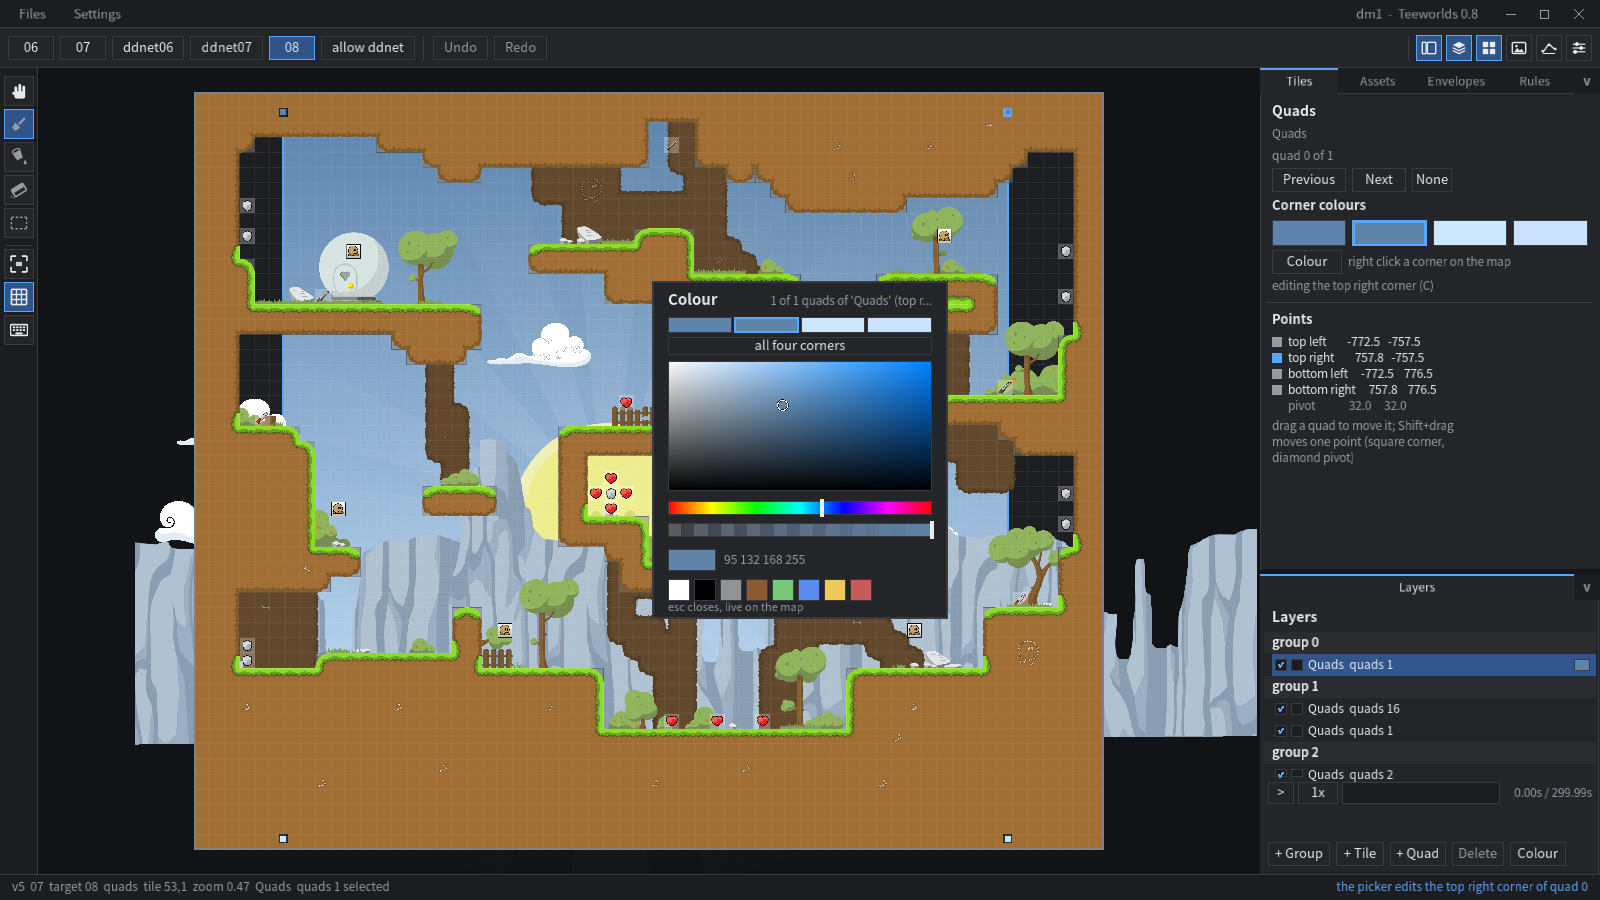
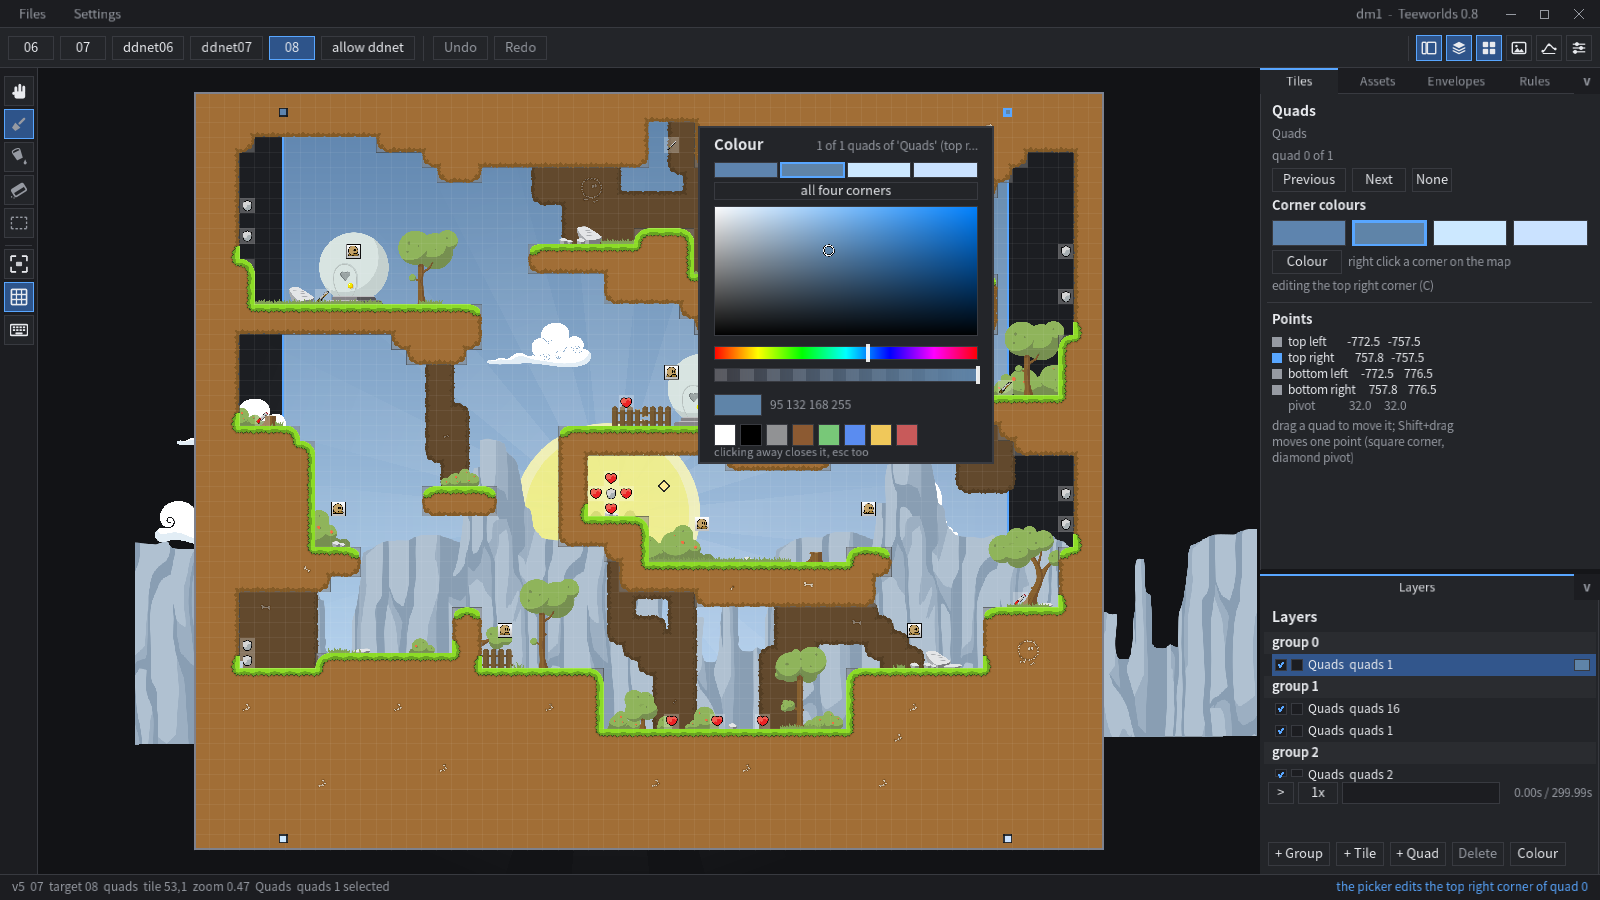
editor: put the picker beside the point it opens from, and close it on a click away
The colour popup was centred on the window, which is where the corner being
coloured usually is: it covered the point the click had just chosen. It is now
placed beside that point, and flips to the other side of it when it would leave
the canvas, so a corner that is itself in a corner of the view still gets a
popup next to it instead of one that is pushed off the edge.

Clicking anywhere else closes it, which is what a popup does, and Escape is
only the other way out. The frame that closes it skips the canvas, so dismissing
the picker cannot also paint a tile or select a quad.

The rectangle is the editor's own (`ColorPopupRect()`) rather than a local of
the drawing code, so the click that dismisses it is tested against exactly what
was drawn, and a windowless frame can run the dismissal and be checked on it.

Changed region(s): [[0.4062, 0.1244, 0.625, 0.7156]]

diff --git a/src/game/editor/cli.cpp b/src/game/editor/cli.cpp
@@ -1463,6 +1463,21 @@ namespace game
 			}
 			Quad.m_aPoints[4].x = 50 * 1024;
 			Quad.m_aPoints[4].y = 50 * 1024;
+			/*
+				A second quad in the far corner of the map, so the check below
+				has a point that really is near the corner of the canvas rather
+				than one it assumes is.
+			*/
+			QuadLayer.m_vQuads.emplace_back();
+			CQuad &FarQuad = QuadLayer.m_vQuads.back();
+			const int aFar[4][2] = {{1500, 1500}, {1600, 1500}, {1500, 1600}, {1600, 1600}};
+			for(int i = 0; i < 4; i++)
+			{
+				FarQuad.m_aPoints[i].x = aFar[i][0] * 1024;
+				FarQuad.m_aPoints[i].y = aFar[i][1] * 1024;
+			}
+			FarQuad.m_aPoints[4].x = 1550 * 1024;
+			FarQuad.m_aPoints[4].y = 1550 * 1024;
 			Editor.SetSelectedLayer(0, static_cast<int>(Group.m_vLayers.size()) - 1);
 			bOk = bOk && Editor.Mode() == edit_mode::quads;
 			Editor.SelectQuad(0);
@@ -1494,17 +1509,77 @@ namespace game
 			bOk = bOk && Editor.SelectedQuads().size() == 1 && Editor.SelectedQuads()[0] == 0;
 			// the tile brush is not what the right button means on a quad layer
 			bOk = bOk && Editor.Status().find("tile layer") == std::string::npos;
+			Editor.Input().OnMouseButton(static_cast<int>(engine::CInput::mouse_button::right), engine::CInput::action_release);
+			Editor.UpdateHeadless();
+			bOk = bOk && Editor.ColorPopupShown();
 
 			// a point inside the shape, away from the handles, is the quad
 			// rather than one of its corners: all four of them at once
 			bOk = bOk && Editor.OpenQuadColorPickerAt(Far, 0);
 			bOk = bOk && Editor.QuadColorTarget() == CEditor::AllQuadCorners;
 
+			/*
+				The popup sits beside the point it was opened from rather than
+				over it - the corner being coloured has to stay visible - and a
+				point that is itself in a corner of the canvas flips it to the
+				other side instead of pushing it off the window.
+			*/
+			const auto Near = [](const base::rect &Rect, base::vec2 Point) {
+				const float dx = std::max(std::max(Rect.m_TopLeft.x - Point.x, Point.x - Rect.m_BottomRight.x), 0.0f);
+				const float dy = std::max(std::max(Rect.m_TopLeft.y - Point.y, Point.y - Rect.m_BottomRight.y), 0.0f);
+				return std::sqrt(dx * dx + dy * dy);
+			};
+			const auto InsideWindow = [](const base::rect &Rect, base::vec2 Window) {
+				return Rect.m_TopLeft.x >= 0.0f && Rect.m_TopLeft.y >= 0.0f &&
+					Rect.m_BottomRight.x <= Window.x && Rect.m_BottomRight.y <= Window.y;
+			};
+			const base::vec2 Window = Editor.WindowSize();
+			Editor.OpenQuadColorPickerAt(Corner, -1);
+			const base::rect Beside = Editor.ColorPopupRect();
+			bOk = bOk && Editor.ColorPopupShown() && !Beside.Contains(Corner);
+			// down and to the right of the point, close enough to belong to it
+			bOk = bOk && Beside.m_TopLeft.x > Corner.x && Beside.m_TopLeft.y > Corner.y;
+			bOk = bOk && Near(Beside, Corner) <= 20.0f && InsideWindow(Beside, Window);
+
+			Editor.SelectQuad(1);
+			const base::vec2 BottomRight = Editor.QuadPointScreen(1, 3);
+			bOk = bOk && Editor.OpenQuadColorPickerAt(BottomRight, -1);
+			const base::rect Flipped = Editor.ColorPopupRect();
+			// the point is in the corner of the canvas, so the popup is the
+			// other way round: above and to the left of it
+			bOk = bOk && !Flipped.Contains(BottomRight);
+			bOk = bOk && Flipped.m_BottomRight.x < BottomRight.x && Flipped.m_BottomRight.y < BottomRight.y;
+			bOk = bOk && Near(Flipped, BottomRight) <= 60.0f && InsideWindow(Flipped, Window);
+			Editor.SelectQuad(0);
+
+			/*
+				A click that is not on the popup closes it, and that frame does
+				nothing else with the click: the picker is a popup, so clicking
+				away is the way out and Escape is only the other one. The closing
+				click here is a right click on the same corner, which would open
+				the picker again if the canvas had seen it.
+			*/
+			Editor.OpenQuadColorPickerAt(Corner, -1);
+			bOk = bOk && Editor.ColorPopupShown();
+			const base::vec2 Inside = Editor.ColorPopupRect().Center();
+			Editor.Input().OnCursorPos(Inside.x, Inside.y);
+			Editor.Input().OnMouseButton(static_cast<int>(engine::CInput::mouse_button::left), engine::CInput::action_press);
+			Editor.UpdateHeadless();
+			bOk = bOk && Editor.ColorPopupShown();
+			Editor.Input().OnMouseButton(static_cast<int>(engine::CInput::mouse_button::left), engine::CInput::action_release);
+			Editor.UpdateHeadless();
+			Editor.Input().OnCursorPos(Corner.x, Corner.y);
+			Editor.Input().OnMouseButton(static_cast<int>(engine::CInput::mouse_button::right), engine::CInput::action_press);
+			Editor.UpdateHeadless();
+			bOk = bOk && !Editor.ColorPopupShown();
+			Editor.Input().OnMouseButton(static_cast<int>(engine::CInput::mouse_button::right), engine::CInput::action_release);
+			Editor.UpdateHeadless();
+
 			// a point of a quad is reported where the transform puts it, so a
 			// script can aim at a corner instead of at a pixel
 			const base::vec2 Left = Editor.QuadPointScreen(0, 0);
 			bOk = bOk && Corner.x > Left.x && std::abs(Corner.y - Left.y) < 0.5f;
-			bOk = bOk && Editor.QuadPointScreen(1, 0).x < 0.0f && Editor.QuadPointScreen(0, 5).x < 0.0f;
+			bOk = bOk && Editor.QuadPointScreen(2, 0).x < 0.0f && Editor.QuadPointScreen(0, 5).x < 0.0f;
 
 			if(bOk)
 				std::cout << "  ok   quad   a right click colours the corner it lands on\n";

diff --git a/src/game/editor/editor.cpp b/src/game/editor/editor.cpp
@@ -152,6 +152,16 @@ namespace game
 		In.NewFrame();
 		EnsureViewStates();
 		ClampSelection();
+		// a popup owns the mouse and the keyboard here for the same reason it
+		// does in the window, and the picker is the one a windowless frame can
+		// still close: clicking away from it
+		if(m_bShowColor || Renaming())
+		{
+			HandleColorPopupInput();
+			HandleRenameInput();
+			In.EndFrame();
+			return;
+		}
 		HandleShortcuts();
 		const base::vec2 Window = WindowSize();
 		const base::rect Canvas = CanvasRect(Window);
@@ -1040,8 +1050,69 @@ namespace game
 			return false;
 		m_PickerColor = Color;
 		m_bShowColor = true;
+		// nothing was clicked, so the popup has no point to sit beside
+		m_PickerAnchor = base::vec2(-1.0f, -1.0f);
 		// the hue is derived from the colour while the picker is drawn
 		return true;
+	}
+
+	base::rect CEditor::ColorPopupRect() const
+	{
+		/*
+			36 header + 130 square + 10 + 14 hue + 8 + 14 alpha + 12 + 22
+			preview + 30 presets + 18 footer, plus the four corner swatches and
+			the button under them when the picker edits a quad. The height is
+			computed from the content rather than written twice: it used to be a
+			fixed box, and the extra rows then drew past its bottom edge.
+		*/
+		const base::vec2 PopupSize(296.0f, 294.0f + (PickerTargetsQuad() ? 44.0f : 0.0f));
+		const base::vec2 Window = WindowSize();
+		if(m_PickerAnchor.x < 0.0f || m_PickerAnchor.y < 0.0f)
+			return base::rect::FromSize(
+				base::vec2(Window.x * 0.5f - PopupSize.x * 0.5f, Window.y * 0.5f - PopupSize.y * 0.5f), PopupSize);
+
+		/*
+			The popup belongs to the map, so it is placed beside the point it was
+			opened from and kept over the canvas: the corner being coloured has
+			to stay visible, or the click that chose it would hide it. A point
+			that is itself in a corner of the window would push the popup past
+			the edge, so it flips to the other side of the point first and is
+			clamped last, for a canvas too small to hold it beside the point.
+		*/
+		const base::rect Canvas = CanvasRect(Window);
+		const float Margin = 6.0f;
+		const float Gap = 14.0f;
+		float X = m_PickerAnchor.x + Gap;
+		float Y = m_PickerAnchor.y + Gap;
+		if(X + PopupSize.x > Canvas.m_BottomRight.x - Margin)
+			X = m_PickerAnchor.x - Gap - PopupSize.x;
+		if(Y + PopupSize.y > Canvas.m_BottomRight.y - Margin)
+			Y = m_PickerAnchor.y - Gap - PopupSize.y;
+		X = base::clamp(X, Canvas.m_TopLeft.x + Margin,
+			std::max(Canvas.m_BottomRight.x - PopupSize.x - Margin, Canvas.m_TopLeft.x + Margin));
+		Y = base::clamp(Y, Canvas.m_TopLeft.y + Margin,
+			std::max(Canvas.m_BottomRight.y - PopupSize.y - Margin, Canvas.m_TopLeft.y + Margin));
+		return base::rect::FromSize(base::vec2(X, Y), PopupSize);
+	}
+
+	void CEditor::HandleColorPopupInput()
+	{
+		if(!m_bShowColor)
+			return;
+		engine::CInput &Input = this->Input();
+		/*
+			Clicking anywhere but the popup is how it goes away, the way a popup
+			behaves everywhere else; Escape stays as the other way out. The
+			press is used up here - the frame skips the canvas - so dismissing
+			the picker cannot also paint a tile or select a quad.
+		*/
+		const bool bPressed = Input.MousePressed(engine::CInput::mouse_button::left) ||
+			Input.MousePressed(engine::CInput::mouse_button::middle) ||
+			Input.MousePressed(engine::CInput::mouse_button::right) ||
+			Input.MousePressed(engine::CInput::mouse_button::x1) ||
+			Input.MousePressed(engine::CInput::mouse_button::x2);
+		if(bPressed && !ColorPopupRect().Contains(Input.MousePosition()))
+			m_bShowColor = false;
 	}
 
 	const char *CEditor::CornerName(int Corner)
@@ -1085,6 +1156,9 @@ namespace game
 		SetQuadColorTarget(Corner);
 		m_PickerColor = pLayer->m_vQuads[static_cast<std::size_t>(Quad)].m_aColors[Corner < 4 ? Corner : 0];
 		m_bShowColor = true;
+		// the point that was clicked is where the popup is placed, so the
+		// corner it colours stays visible next to it
+		m_PickerAnchor = Screen;
 		SetStatus(Corner < 4 ?
 			base::Format("the picker edits the %s corner of quad %d", CornerName(Corner), Quad) :
 			base::Format("the picker edits all four corners of quad %d", Quad));
@@ -2515,6 +2589,7 @@ namespace game
 		if(m_bShowOpen || m_bShowSave || m_bShowExport || m_bShowHelp || m_bShowColor || m_Menu != menu_id::none ||
 			Renaming())
 		{
+			HandleColorPopupInput();
 #if UNITEED_GUI
 			HandlePopupInput();
 #endif

diff --git a/src/game/editor/editor_draw.cpp b/src/game/editor/editor_draw.cpp
@@ -1719,7 +1719,11 @@ namespace game
 		}
 
 		if(m_bShowColor)
-			return; // the picker handles its own mouse input while it is drawn
+		{
+			// the picker handles its own mouse input while it is drawn, and a
+			// click away from it has already closed it by the time this runs
+			return;
+		}
 
 		if(m_bShowOpen)
 		{
@@ -1886,20 +1890,15 @@ namespace game
 	void CEditor::DrawColorPopup(ui::CPainter *pPainter)
 	{
 		engine::CInput &Input = m_pGraphics->Input();
-		const base::vec2 Size = m_pGraphics->WindowSize();
 
 		/*
-			A quad popup carries the four live corner swatches and the target
-			button on top of the usual picker, so it is taller. The height is
-			computed from the content rather than written twice: it used to be a
-			fixed box, and the extra rows then drew past its bottom edge.
+			Where the popup is and how tall it is belongs to the editor, not to
+			the drawing: the click that dismisses it has to be tested against
+			the same rectangle that was drawn, and a windowless frame has to be
+			able to do the same.
 		*/
+		const base::rect Popup = ColorPopupRect();
 		const bool bCorners = PickerTargetsQuad();
-		const float CornerRows = bCorners ? 44.0f : 0.0f;
-		// 36 header + 130 square + 10 + 14 hue + 8 + 14 alpha + 12 + 22 preview
-		// + 30 presets + 18 footer, plus the corner rows
-		const float PopupHeight = 294.0f + CornerRows;
-		const base::rect Popup = base::rect::FromSize(base::vec2(Size.x * 0.5f - 148.0f, Size.y * 0.5f - PopupHeight * 0.5f), base::vec2(296.0f, PopupHeight));
 		ui::Rect(pPainter, Popup, ui::Theme.m_Panel);
 		ui::RectOutline(pPainter, Popup, ui::Theme.m_Border, 2.0f);
 
@@ -2071,14 +2070,15 @@ namespace game
 		}
 
 		// the presets and the hint share the last row, so the hint sits beside
-		// the swatches rather than behind them
+		// the swatches rather than behind them. It names the click first: that
+		// is the way out a popup is expected to have
 		const float PresetWidth = 8 * 26.0f;
-		if(X + PresetWidth + 150.0f < Popup.m_BottomRight.x - 12.0f)
+		if(X + PresetWidth + 200.0f < Popup.m_BottomRight.x - 12.0f)
 			ui::Text(pPainter, m_pGraphics->Font(), base::vec2(X + PresetWidth + 6.0f, y + 46.0f), 11.0f, ui::Theme.m_TextDim,
-				"esc closes, live on the map");
+				"clicking away closes it, esc too");
 		else
 			ui::Text(pPainter, m_pGraphics->Font(), base::vec2(Popup.m_TopLeft.x + 16.0f, Popup.m_BottomRight.y - 8.0f), 11.0f, ui::Theme.m_TextDim,
-				"esc closes, live on the map");
+				"clicking away closes it, esc too");
 	}
 
 	// ------------------------------------------------------------- envelopes

diff --git a/src/game/editor/editor.h b/src/game/editor/editor.h
@@ -549,6 +549,15 @@ namespace game
 		// right click landed
 		bool ColorPopupShown() const { return m_bShowColor; }
 		/*
+			Where the picker popup is drawn. Opened from the map it sits beside
+			the point it was opened from - the corner the right click landed on,
+			which stays visible - and it flips to the other side of that point
+			when it would leave the canvas, so a corner that is itself in a
+			corner of the window still gets a popup next to it. Without a point
+			(C, or the button in the panel) it is centred.
+		*/
+		base::rect ColorPopupRect() const;
+		/*
 			Where a point of a quad is drawn, in window pixels. The canvas hit
 			tests in screen space, so anything that wants to click a corner - the
 			offscreen script of a screenshot, or `--selftest` - has to ask where
@@ -729,6 +738,9 @@ namespace game
 		void HandleQuadMoveStart();
 		void UpdateQuadHover(bool bInCanvas);
 		void HandlePopupInput();
+		// the mouse half of the picker popup, which is the half a windowless
+		// frame can run: a click anywhere else closes it
+		void HandleColorPopupInput();
 		void OpenBrowser();
 		void PaintAt(base::vec2 World);
 		// the game layer is painted with entities rather than tiles, so it has
@@ -968,6 +980,9 @@ namespace game
 
 		// the colour picker popup
 		bool m_bShowColor = false;
+		// where it was opened from, so the popup can sit beside the corner that
+		// was clicked rather than over it; negative means centred
+		base::vec2 m_PickerAnchor{-1.0f, -1.0f};
 		CColor m_PickerColor;
 		// the hue survives a trip through grey, which the rgb colour cannot store
 		float m_PickerHue = 0.0f;

diff --git a/docs/ARCHITECTURE.md b/docs/ARCHITECTURE.md
@@ -270,7 +270,8 @@ layer, through `CEditor::Mode()`: a tile layer gives `edit_mode::tiles` and the 
 brush, a quad layer gives `edit_mode::quads` and the point handles, a locked or
 unknown layer gives `edit_mode::none`. The toolbar, the layer panel and the right
 panel all branch on that one function, which is why only the controls that apply to
-the selection are ever on screen. Three derived rules matter:
+the selection are ever on screen. What follows from that is a short list of rules, and
+every one of them has bitten this code already:
 
 * **hit tests use the same points that are drawn.** `QuadPoints()` applies the
   position envelope, and both `DrawQuadLayer()` and `UpdateQuadHover()` go through it,
@@ -291,6 +292,14 @@ the selection are ever on screen. Three derived rules matter:
   than by a selection in the panel. `QuadHandleAt()` is the one place that decides
   which point was hit, and `QuadPointScreen()` is its inverse, which is what lets a
   scripted run or `--selftest` put the cursor on a corner without knowing the layout.
+* **a popup is one rectangle and one owner.** `ColorPopupRect()` is where the picker is
+  drawn and it is also what the dismissal is tested against: it is placed beside the
+  point the picker was opened from - flipped to the other side of it near an edge of the
+  canvas, so the corner being coloured is never covered - and `HandleColorPopupInput()`
+  closes the popup on a press outside it. That function is deliberately free of the
+  painter: `Update()` and `UpdateHeadless()` run it in the same place, so a windowless
+  frame exercises the same dismissal the window does, and Escape is only the other way
+  out rather than the only one.
 
 The tile brush is a **stamp**, `m_vBrush` with its own size and a tile index and flags
 per cell, not a single index. A 1x1 stamp is the plain tile brush, the palette and the

diff --git a/README.md b/README.md
@@ -595,8 +595,11 @@ last value is used, the curve of the point before the time decides the interpola
 22.10 fixed point.
 
 The picker edits the selected tile layer's colour, or a quad's colour: one corner when a
-right click landed on it, all four when it landed inside the shape. Everything is
-undoable (`Ctrl+Z`) and is written out by every export target.
+right click landed on it, all four when it landed inside the shape. Opened from the map it
+sits **beside** the point that was clicked, so the corner being coloured stays visible; near
+an edge of the canvas it flips to the other side of that point instead of leaving the view.
+Clicking anywhere else closes it, and `Escape` does the same. Everything is undoable
+(`Ctrl+Z`) and is written out by every export target.
 
 ![the picker, opened by a right click on the top right corner of a quad](docs/screenshots/editor-color.png)
 
